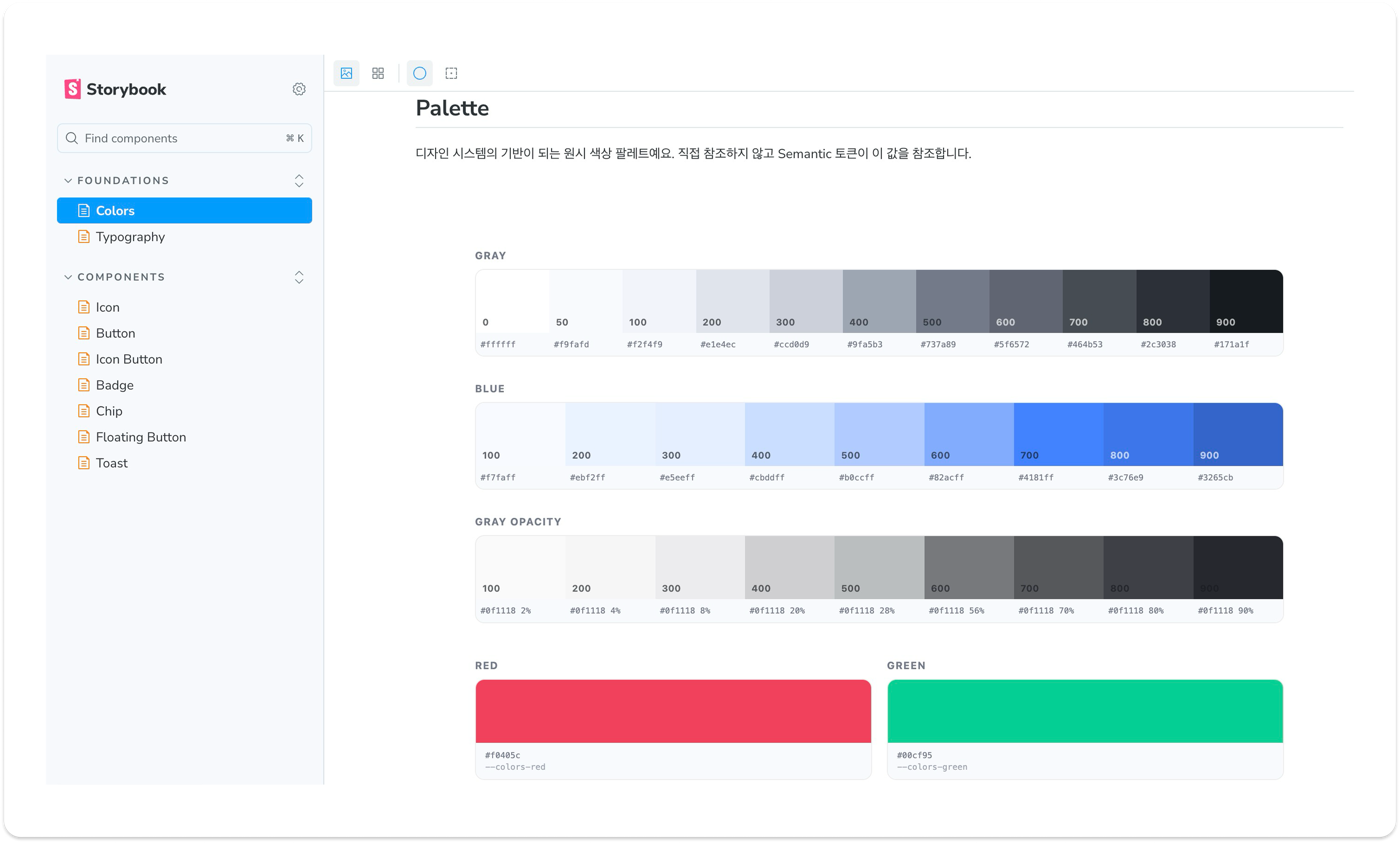
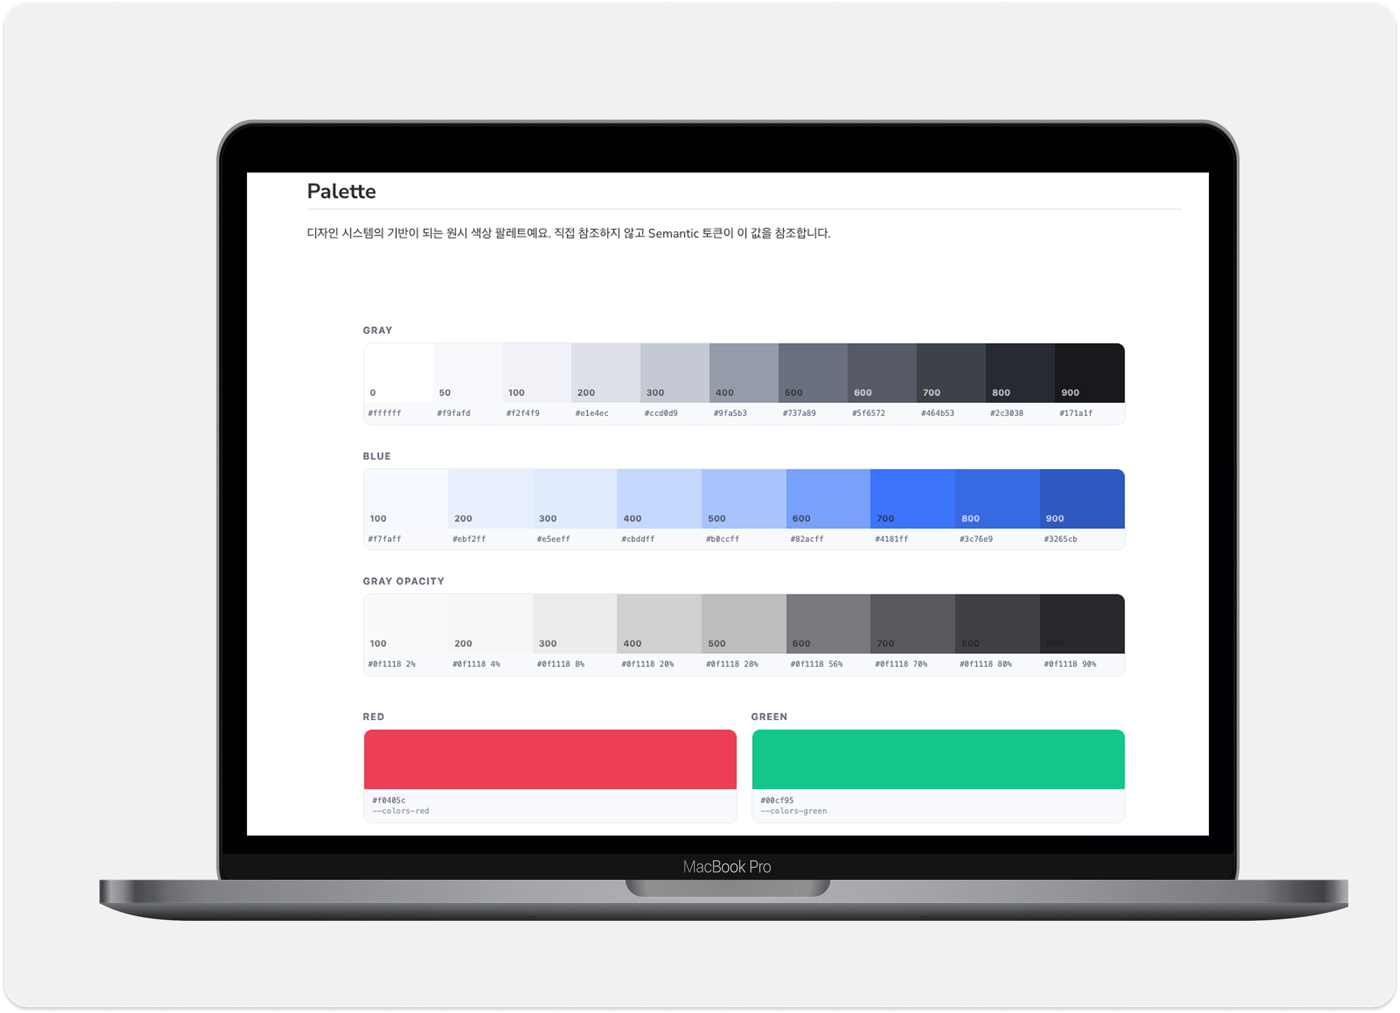
Update Projects copy/images and fix card image cropping

diff --git a/components/Projects.tsx b/components/Projects.tsx
@@ -8,32 +8,40 @@ type Project = {
   role: string;
   tech: string[];
   points: string[];
-  image: string;
+  image?: string;
   demo?: string;
   repo?: string;
 };
 
 const projects: Project[] = [
   {
-    title: "Moyeorak",
+    title: "모여락(Moyeorak)",
     desc: "모임 일정 및 장소 조율 통합 서비스",
-    period: "2026.01 - 2026.02",
-    role: "프론트엔드 개발 · 디자이너 2, FE 2, BE 2",
-    tech: ["React 19", "TypeScript", "Tailwind CSS", "TanStack Query", "React Hook Form", "Zod", "Storybook", "Vercel"],
-    points: [
-      "드래그로 시간 슬롯을 선택·해제하는 멀티 날짜 타임테이블 구현",
-      "참여자 수를 슬롯 opacity로 표현한 히트맵으로 최적 일정 시각화",
-      "출발지 기반 중간지점 역·장소 추천 및 대중교통·도보 경로 제공",
-      "링크 공유만으로 참여 가능한 비회원 초대 플로우 구현",
+    period: "2026.01 - 2026.03 · 약 2개월",
+    role: "팀 프로젝트 6인 · 디자인 2, 백엔드 2, 프론트엔드 2(본인)",
+    tech: [
+      "React",
+      "TypeScript",
+      "Tailwind CSS",
+      "TanStack Query",
+      "React Hook Form",
+      "Zod",
+      "Vercel",
+      "Git",
     ],
-    image: "/example.png",
+    points: [
+      "모임 생성, 링크 초대, 가능 시간 등록, 일정 확정, 장소 선정까지 이어지는 플로우 구현",
+      "참여자들의 일정을 기반으로 가능한 인원이 많은 시간대를 한눈에 확인할 수 있는 투표 결과 화면 구성",
+      "TanStack Query, React Hook Form, Zod로 서버 상태, 폼 상태, 유효성 검증 책임을 분리해 안정적인 입력 처리와 데이터 동기화 구조 구현",
+    ],
+    image: "/moyeorak.png",
     demo: "https://moyeorak.site/",
   },
   {
-    title: "Moyeorak Design System",
-    desc: "Moyeorak 서비스 기반 Storybook 컴포넌트 라이브러리",
+    title: "모여락 디자인 시스템",
+    desc: "@moyeorak/design-system 컴포넌트 라이브러리 구축",
     period: "2026.04 - 진행 중",
-    role: "프론트엔드 개발 · 디자이너 1, FE 1",
+    role: "프론트엔드 1(본인) · 디자인 1",
     tech: [
       "React",
       "TypeScript",
@@ -43,11 +51,33 @@ const projects: Project[] = [
       "Chromatic",
     ],
     points: [
-      "디자이너와 협업하여 Moyeorak 컴포넌트를 독립 라이브러리로 구축",
-      "Chromatic으로 컴포넌트 문서화 및 시각적 회귀 테스트 운영",
+      "색상과 타이포그래피를 semantic token으로 구조화하고 Button, Badge, Chip 등 공통 컴포넌트 구현",
+      "Storybook으로 컴포넌트 사용 가이드와 예제를 문서화하고 Chromatic 기반 문서화 환경 구성",
+      "Panda CSS와 Tailwind를 함께 지원할 수 있는 스타일링 구조 설계",
     ],
     image: "/moyeorak-design-system.png",
     demo: "https://main--69cf7bceba8267c1b5d86ba6.chromatic.com/",
+  },
+  {
+    title: "한귤(Hangyul)",
+    desc: "AI 한국어 학습 앱 공식 다국어 랜딩 페이지",
+    period: "2026.01 - 2026.03 · 약 3개월",
+    role: "외주 프로젝트 단독 수행",
+    tech: [
+      "Next.js",
+      "TypeScript",
+      "CSS Modules",
+      "Framer Motion",
+      "next-intl",
+      "Playwright",
+      "Vercel",
+    ],
+    points: [
+      "한국어와 영어를 지원해 국내외 사용자가 각자의 언어 환경에서 서비스를 탐색할 수 있는 다국어 구조 구현",
+      "모바일 반응형 레이아웃을 적용하고 Playwright 기반 검증 환경을 활용",
+    ],
+    image: "/hangyul.png",
+    demo: "https://www.talkhangyul.com/ko/",
   },
 ];
 
@@ -61,34 +91,41 @@ export default function Projects() {
           {projects.map((p) => (
             <div
               key={p.title}
-              className="flex flex-col lg:flex-row gap-8 p-8 border-2 border-black rounded-[2rem] transition-all duration-200 hover:scale-[1.01] hover:shadow-xl"
+              className="flex flex-col lg:flex-row lg:items-center gap-8 p-8 border-2 border-black rounded-[2rem] transition-all duration-200 hover:scale-[1.01] hover:shadow-xl"
             >
               {/* 이미지 */}
-              <div className="lg:w-2/5 flex-shrink-0">
-                <Image
-                  src={p.image}
-                  alt={p.title}
-                  width={600}
-                  height={400}
-                  className="w-full h-full object-cover rounded-2xl"
-                />
-              </div>
+              {p.image && (
+                <div className="lg:w-2/5 flex-shrink-0 aspect-[7/5]">
+                  <Image
+                    src={p.image}
+                    alt={p.title}
+                    width={600}
+                    height={400}
+                    className="w-full h-full object-cover rounded-2xl"
+                  />
+                </div>
+              )}
 
               {/* 텍스트 */}
               <div className="flex flex-col gap-4 flex-1">
-                <div className="flex items-start justify-between gap-4">
+                <div className="flex flex-col sm:flex-row sm:items-start sm:justify-between gap-2 sm:gap-4">
                   <div>
                     <h3 className="text-xl font-bold">{p.title}</h3>
                     <p className="text-sm text-gray-500 mt-0.5">{p.desc}</p>
                   </div>
-                  <span className="text-xs text-gray-400 whitespace-nowrap pt-1">{p.period}</span>
+                  <span className="text-xs text-gray-400 sm:whitespace-nowrap pt-1">
+                    {p.period}
+                  </span>
                 </div>
 
                 <p className="text-xs text-gray-400">{p.role}</p>
 
                 <div className="flex flex-wrap gap-2">
                   {p.tech.map((t) => (
-                    <span key={t} className="text-xs px-3 py-1 rounded-full border border-gray-300 text-gray-600">
+                    <span
+                      key={t}
+                      className="text-xs px-3 py-1 rounded-full border border-gray-300 text-gray-600"
+                    >
                       {t}
                     </span>
                   ))}
@@ -96,7 +133,10 @@ export default function Projects() {
 
                 <ul className="flex flex-col gap-1.5">
                   {p.points.map((pt) => (
-                    <li key={pt} className="text-sm text-gray-600 pl-3 border-l-2 border-gray-200">
+                    <li
+                      key={pt}
+                      className="text-sm text-gray-600 pl-3 border-l-2 border-gray-200"
+                    >
                       {pt}
                     </li>
                   ))}
@@ -107,6 +147,7 @@ export default function Projects() {
                     <a
                       href={p.demo}
                       target="_blank"
+                      rel="noopener noreferrer"
                       className="flex items-center gap-2 text-sm px-5 py-2 rounded-full border-2 border-black font-medium transition-all duration-200 hover:bg-black hover:text-white"
                     >
                       <i className="fa-solid fa-arrow-up-right-from-square text-xs" />
@@ -117,6 +158,7 @@ export default function Projects() {
                     <a
                       href={p.repo}
                       target="_blank"
+                      rel="noopener noreferrer"
                       className="flex items-center gap-2 text-sm px-5 py-2 rounded-full border-2 border-black font-medium transition-all duration-200 hover:bg-black hover:text-white"
                     >
                       <i className="fa-brands fa-github text-sm" />
